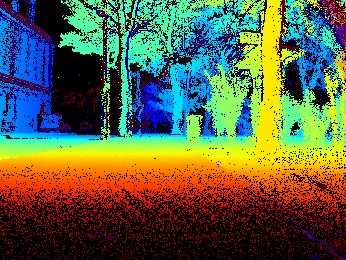
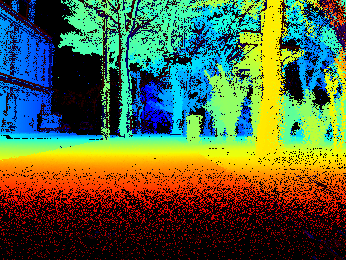
增加均值滤波增密下1/3处的深度

diff --git a/d/fetch_depth.py b/d/fetch_depth.py
@@ -1,7 +1,11 @@
+import os
+os.environ["MPLBACKEND"] = "Agg"
+os.environ["QT_QPA_PLATFORM"] = "offscreen"
 import numpy as np
+import cv2
 import numpy.ma as ma
 import matplotlib.pyplot as plt
-import os
+# import os
 import argparse
 
 def visualize_depth_map(npz_file, save_dir):
@@ -44,7 +48,7 @@ def visualize_depth_map(npz_file, save_dir):
     plt.xlabel('Width')
     plt.ylabel('Height')
     plt.tight_layout()
-    plt.savefig(save_path_noted, dpi=150)
+    plt.savefig(save_path_noted, dpi=800)
     plt.close()
     
     # 无注解深度图：同一着色；无效为黑色不透明
@@ -59,9 +63,46 @@ def visualize_depth_map(npz_file, save_dir):
     rgba_img[~valid_mask, :3] = 0.0
     rgba_img[..., 3] = 1.0
     plt.imsave(save_path_plain, rgba_img)
+
+    # 深度增密填充：将 max-dilation 改为 7x7 的平均值滤波（仅对有效像素做 masked mean）。
+    # 仅将滤波结果写回下方 1/3；上方 2/3 保持原始深度。
+    split_row = int((1.8 * h) / 3.0)  # [0, split_row) 为上方 2/3
+
+    vals = np.zeros((h, w), dtype=np.float32)
+    vals[valid_mask] = log_field[valid_mask].astype(np.float32, copy=False)
+    weights = valid_mask.astype(np.float32)
+
+    kernel = np.ones((7, 7), dtype=np.float32)
+    sum_vals = cv2.filter2D(vals, ddepth=-1, kernel=kernel, borderType=cv2.BORDER_CONSTANT)
+    sum_w = cv2.filter2D(weights, ddepth=-1, kernel=kernel, borderType=cv2.BORDER_CONSTANT)
+
+    dense_log = np.zeros((h, w), dtype=np.float32)
+    dense_valid_mask = sum_w > 0.0
+    dense_log[dense_valid_mask] = sum_vals[dense_valid_mask] / sum_w[dense_valid_mask]
+
+    dense_log_out = log_field.copy()
+    dense_valid_mask_out = valid_mask.copy()
+
+    dense_log_out[split_row:, :] = dense_log[split_row:, :]
+    dense_valid_mask_out[split_row:, :] = dense_valid_mask[split_row:, :]
+
+    norm_dense = np.zeros((h, w), dtype=np.float64)
+    if np.any(dense_valid_mask_out):
+        rng = z_max - z_min
+        if rng < 1e-12:
+            norm_dense[dense_valid_mask_out] = 0.5
+        else:
+            norm_dense[dense_valid_mask_out] = (dense_log_out[dense_valid_mask_out] - z_min) / rng
+
+    rgba_dense = cmap(norm_dense)
+    rgba_dense[~dense_valid_mask_out, :3] = 0.0
+    rgba_dense[..., 3] = 1.0
+    save_path_dense = os.path.join(save_dir, 'frame_depth_dense.png')
+    plt.imsave(save_path_dense, rgba_dense)
     
     print(f"带注解深度图已保存到: {save_path_noted}")
     print(f"无注解深度图已保存到: {save_path_plain}")
+    print(f"增密(下方1/3 + 7x7 mean filter)深度图已保存到: {save_path_dense}")
 
 def main():
     parser = argparse.ArgumentParser(description='生成NPZ文件中的深度图PNG')

diff --git a/d/fetch_evframe.py b/d/fetch_evframe.py
@@ -15,8 +15,8 @@ def save_overlay(overlay, output, title=None, legend=None):
 def main():
     parser = argparse.ArgumentParser(description='按频率累加NPZ文件像素值')
     parser.add_argument('--dir', default='./dataset', help='数据目录')
-    parser.add_argument('--start', type=int, default=1995, help='起始编号')
-    parser.add_argument('--end', type=int, default=2005, help='结束编号')
+    parser.add_argument('--start', type=int, default=2000, help='起始编号')
+    parser.add_argument('--end', type=int, default=2000, help='结束编号')
     parser.add_argument('--output', default='event_tensor_noted.png', help='输出文件（带注解）')
     args = parser.parse_args()
     
